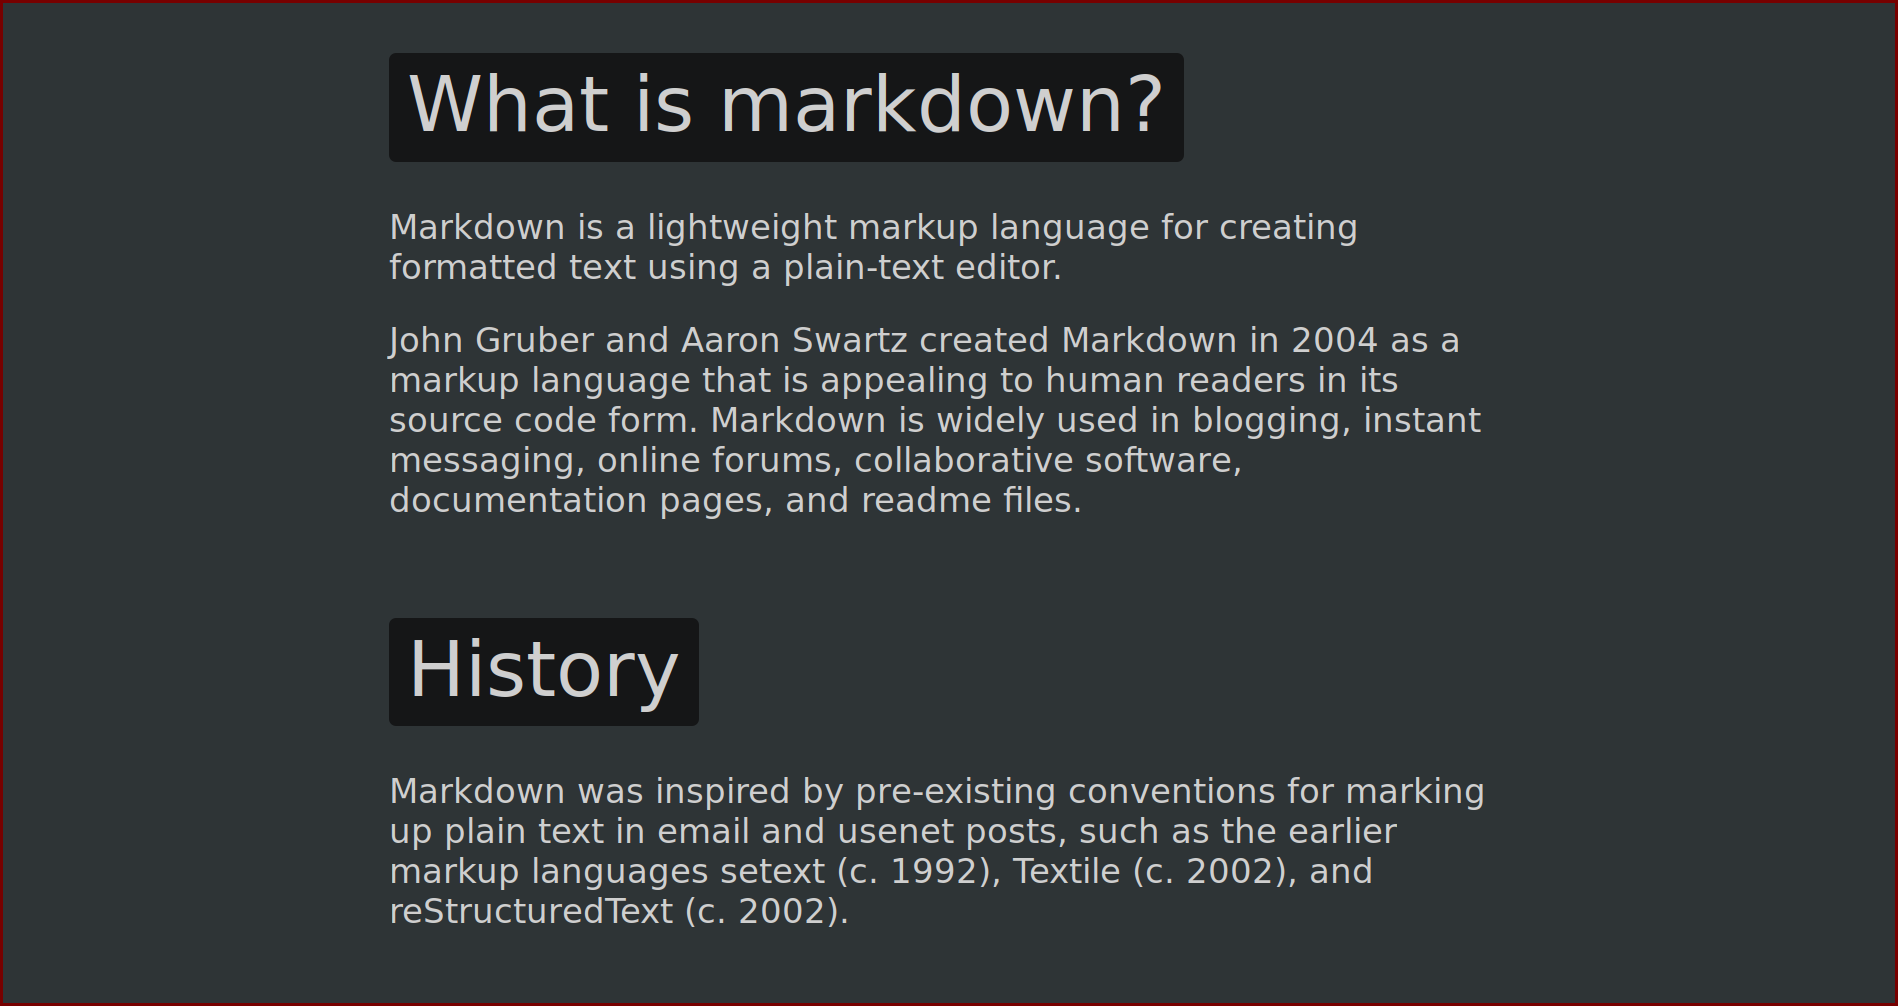
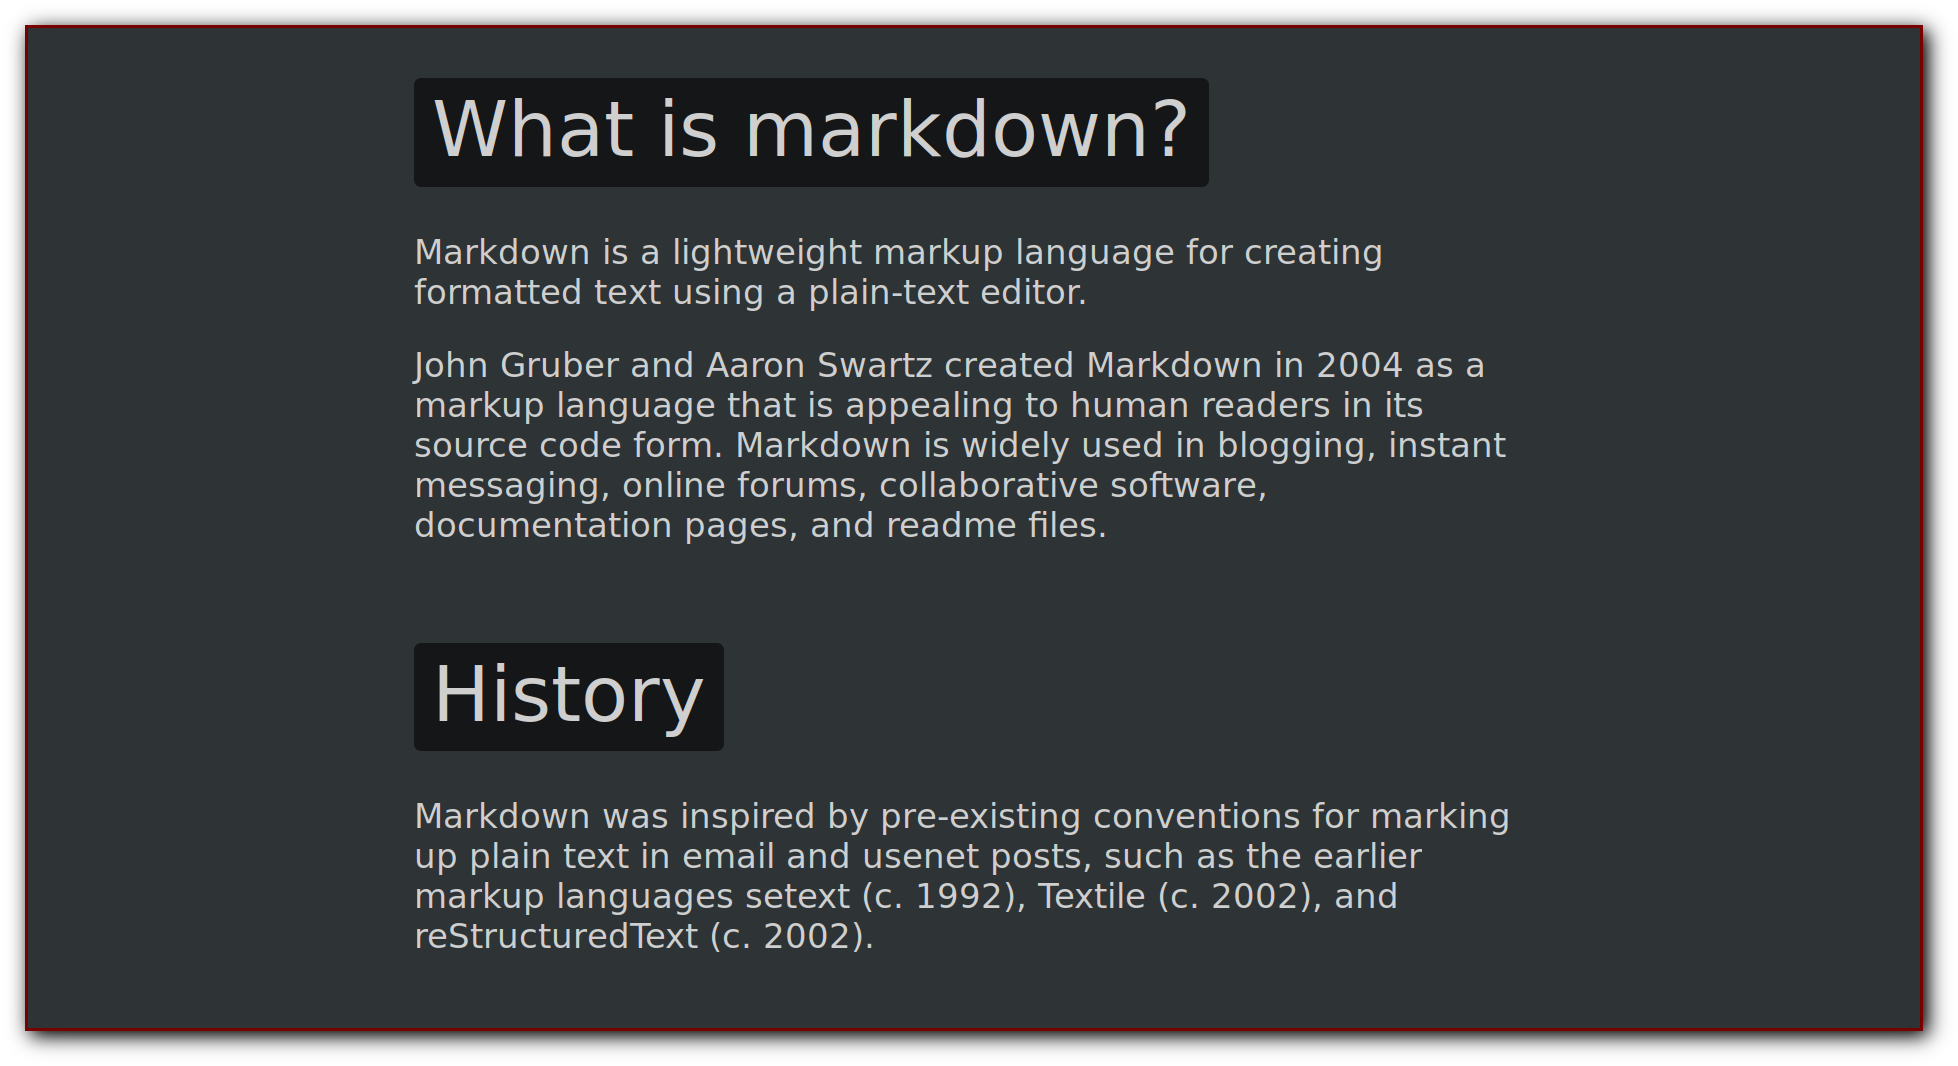
fixed screenshots in README, added shadow to them

Changed region(s): [[0.0, 0.0, 1.0, 1.0], [0.1865, 0.2157, 0.7771, 0.5239], [0.1865, 0.5855, 0.7771, 0.9245]]

diff --git a/README.md b/README.md
@@ -24,12 +24,12 @@ cp themes/allgray/config.toml .
 
 ## screenshot
 
-![page-title](shot-230331_032225.png)
+![page-title](shots/shot-230331_032225.png)
 
-![page-body](shot-230331_033237.png)
+![page-body](shots/shot-230331_033237.png)
 
-![code-block](shot-230331_033618.png)
+![code-block](shots/shot-230331_033618.png)
 
-![code-block-output](shot-230331_033924.png)
+![code-block-output](shots/shot-230331_033924.png)
 
-![site-map](shot-230331_034001.png)
+![site-map](shots/shot-230331_034001.png)
